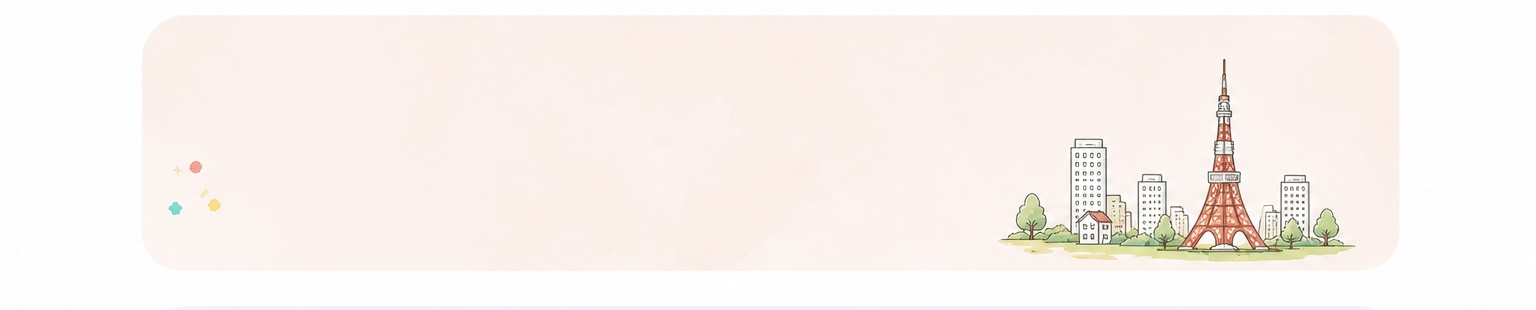
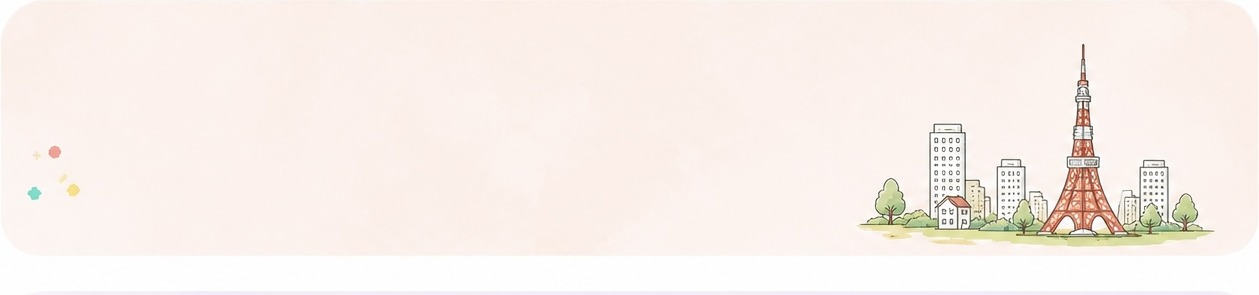
地域を選ぶ: 地図拡大・吹き出し丸型化・カードのイラスト右寄せ＆白余白解消
【画像トリミング】
- パノラマ: 周囲の透明余白を切り取り（1536x1024→1352x628）。3エリアが画面いっぱいに大きく表示
- 3バナー（山梨/多摩/23区）: 白キャンバス余白をトリミングし、色付き帯＋イラストのみに（白い隙間の原因を除去）

【パノラマ表示】
- 固定アスペクト比をやめ width:100%/height:auto で大きく表示、左右マージンを6pxに縮小

【吹き出しピン】
- 角丸長方形→直径74pxの丸型に。テキストは折り返し可（東京（多摩）等もおさまりよく）
- 下向き三角ポインター（外=地域色／内=白）は維持

【地域カード】
- ric-bg を object-position:right に変更しイラストを常に右端に配置
- テキストパネルのグラデーションを各地域色（coral/purple/green soft）に変更し、トリミング済みバナーと色を揃えて白い隙間を解消
- カード背景色も地域色に設定

diff --git a/index.html b/index.html
@@ -1227,18 +1227,14 @@
   /* Top: panoramic illustration (3 region areas) */
   .region-panorama {
     position: relative;
-    margin: 0 16px 28px;
+    margin: 4px 6px 26px;
     border-radius: var(--radius-lg);
-    overflow: hidden;
-    aspect-ratio: 3 / 2;
-    min-height: 180px;
+    overflow: visible;
   }
   .region-panorama-img {
     display: block;
     width: 100%;
-    height: 100%;
-    object-fit: contain;
-    object-position: center;
+    height: auto;
   }
   .region-panorama.no-image::before {
     content: '🗺  illust-panorama.png を assets/ に配置してください';
@@ -1252,39 +1248,40 @@
   .panorama-pin {
     position: absolute;
     transform: translate(-50%, -100%);
-    display: inline-flex;
-    flex-direction: column;
-    align-items: center;
-    padding: 6px 12px 8px;
+    width: 74px;
+    height: 74px;
+    border-radius: 50%;
+    padding: 6px;
     background: #fff;
     border: 2.5px solid var(--color-border);
-    border-radius: 14px;
     cursor: pointer;
     font-family: inherit;
-    box-shadow: 0 6px 14px rgba(0,0,0,0.18);
+    box-shadow: 0 5px 13px rgba(0,0,0,0.2);
     transition: transform 0.15s ease;
-    line-height: 1.15;
-    white-space: nowrap;
+    display: flex;
+    align-items: center;
+    justify-content: center;
+    text-align: center;
   }
   .panorama-pin::after {
     content: '';
     position: absolute;
-    bottom: -10px; left: 50%;
+    bottom: -9px; left: 50%;
     transform: translateX(-50%);
     width: 0; height: 0;
     border-style: solid;
-    border-width: 11px 7px 0 7px;
+    border-width: 10px 6px 0 6px;
     border-color: #fff transparent transparent transparent;
     z-index: 1;
   }
   .panorama-pin::before {
     content: '';
     position: absolute;
-    bottom: -14px; left: 50%;
+    bottom: -13px; left: 50%;
     transform: translateX(-50%);
     width: 0; height: 0;
     border-style: solid;
-    border-width: 13px 9px 0 9px;
+    border-width: 12px 8px 0 8px;
     border-color: currentColor transparent transparent transparent;
     z-index: 0;
   }
@@ -1293,26 +1290,25 @@
     display: flex;
     flex-direction: column;
     align-items: center;
-    line-height: 1.15;
+    line-height: 1.2;
   }
   .pin-jp {
-    font-size: 12px;
+    font-size: 10.5px;
     font-weight: 800;
     color: var(--color-ink);
-    white-space: nowrap;
+    line-height: 1.25;
   }
   .pin-en {
     font-family: var(--font-display);
-    font-size: 7px;
+    font-size: 6px;
     font-weight: 700;
-    letter-spacing: 0.16em;
+    letter-spacing: 0.1em;
     color: var(--color-ink-soft);
     margin-top: 2px;
-    white-space: nowrap;
   }
-  .pin-yamanashi { left: 18%; top: 56%; color: var(--color-green); border-color: var(--color-green); }
-  .pin-tama      { left: 50%; top: 50%; color: var(--color-purple); border-color: var(--color-purple); }
-  .pin-tokyo23   { left: 81%; top: 52%; color: var(--color-coral); border-color: var(--color-coral); }
+  .pin-yamanashi { left: 16%; top: 60%; color: var(--color-green); border-color: var(--color-green); }
+  .pin-tama      { left: 50%; top: 54%; color: var(--color-purple); border-color: var(--color-purple); }
+  .pin-tokyo23   { left: 82%; top: 58%; color: var(--color-coral); border-color: var(--color-coral); }
 
   /* Section title above the 3 cards */
   .region-section-title {
@@ -1349,6 +1345,9 @@
     min-height: 116px;
     background: var(--color-card-alt);
   }
+  .region-illust-card[data-region="tokyo23"]   { background: var(--color-coral-soft); }
+  .region-illust-card[data-region="tokyo-2nd"] { background: var(--color-purple-soft); }
+  .region-illust-card[data-region="yamanashi"] { background: var(--color-green-soft); }
   .region-illust-card:active {
     transform: translateY(1px);
     box-shadow: 0 1px 5px rgba(0,0,0,0.1);
@@ -1359,7 +1358,7 @@
     width: 100%;
     height: 100%;
     object-fit: cover;
-    object-position: center 38%;
+    object-position: right center;
     display: block;
     z-index: 0;
   }
@@ -1377,12 +1376,16 @@
     flex-direction: column;
     justify-content: center;
     gap: 2px;
-    background: linear-gradient(to right,
-      rgba(255,250,242,0.94) 0%,
-      rgba(255,250,242,0.92) 50%,
-      rgba(255,250,242,0.6) 80%,
-      rgba(255,250,242,0) 100%);
-    max-width: 62%;
+    max-width: 64%;
+  }
+  .region-illust-card[data-region="tokyo23"] .ric-text {
+    background: linear-gradient(to right, var(--color-coral-soft) 0%, var(--color-coral-soft) 55%, rgba(250,213,204,0.6) 82%, rgba(250,213,204,0) 100%);
+  }
+  .region-illust-card[data-region="tokyo-2nd"] .ric-text {
+    background: linear-gradient(to right, var(--color-purple-soft) 0%, var(--color-purple-soft) 55%, rgba(224,213,238,0.6) 82%, rgba(224,213,238,0) 100%);
+  }
+  .region-illust-card[data-region="yamanashi"] .ric-text {
+    background: linear-gradient(to right, var(--color-green-soft) 0%, var(--color-green-soft) 55%, rgba(224,235,166,0.55) 82%, rgba(224,235,166,0) 100%);
   }
   .ric-name-jp {
     font-size: 20px;
